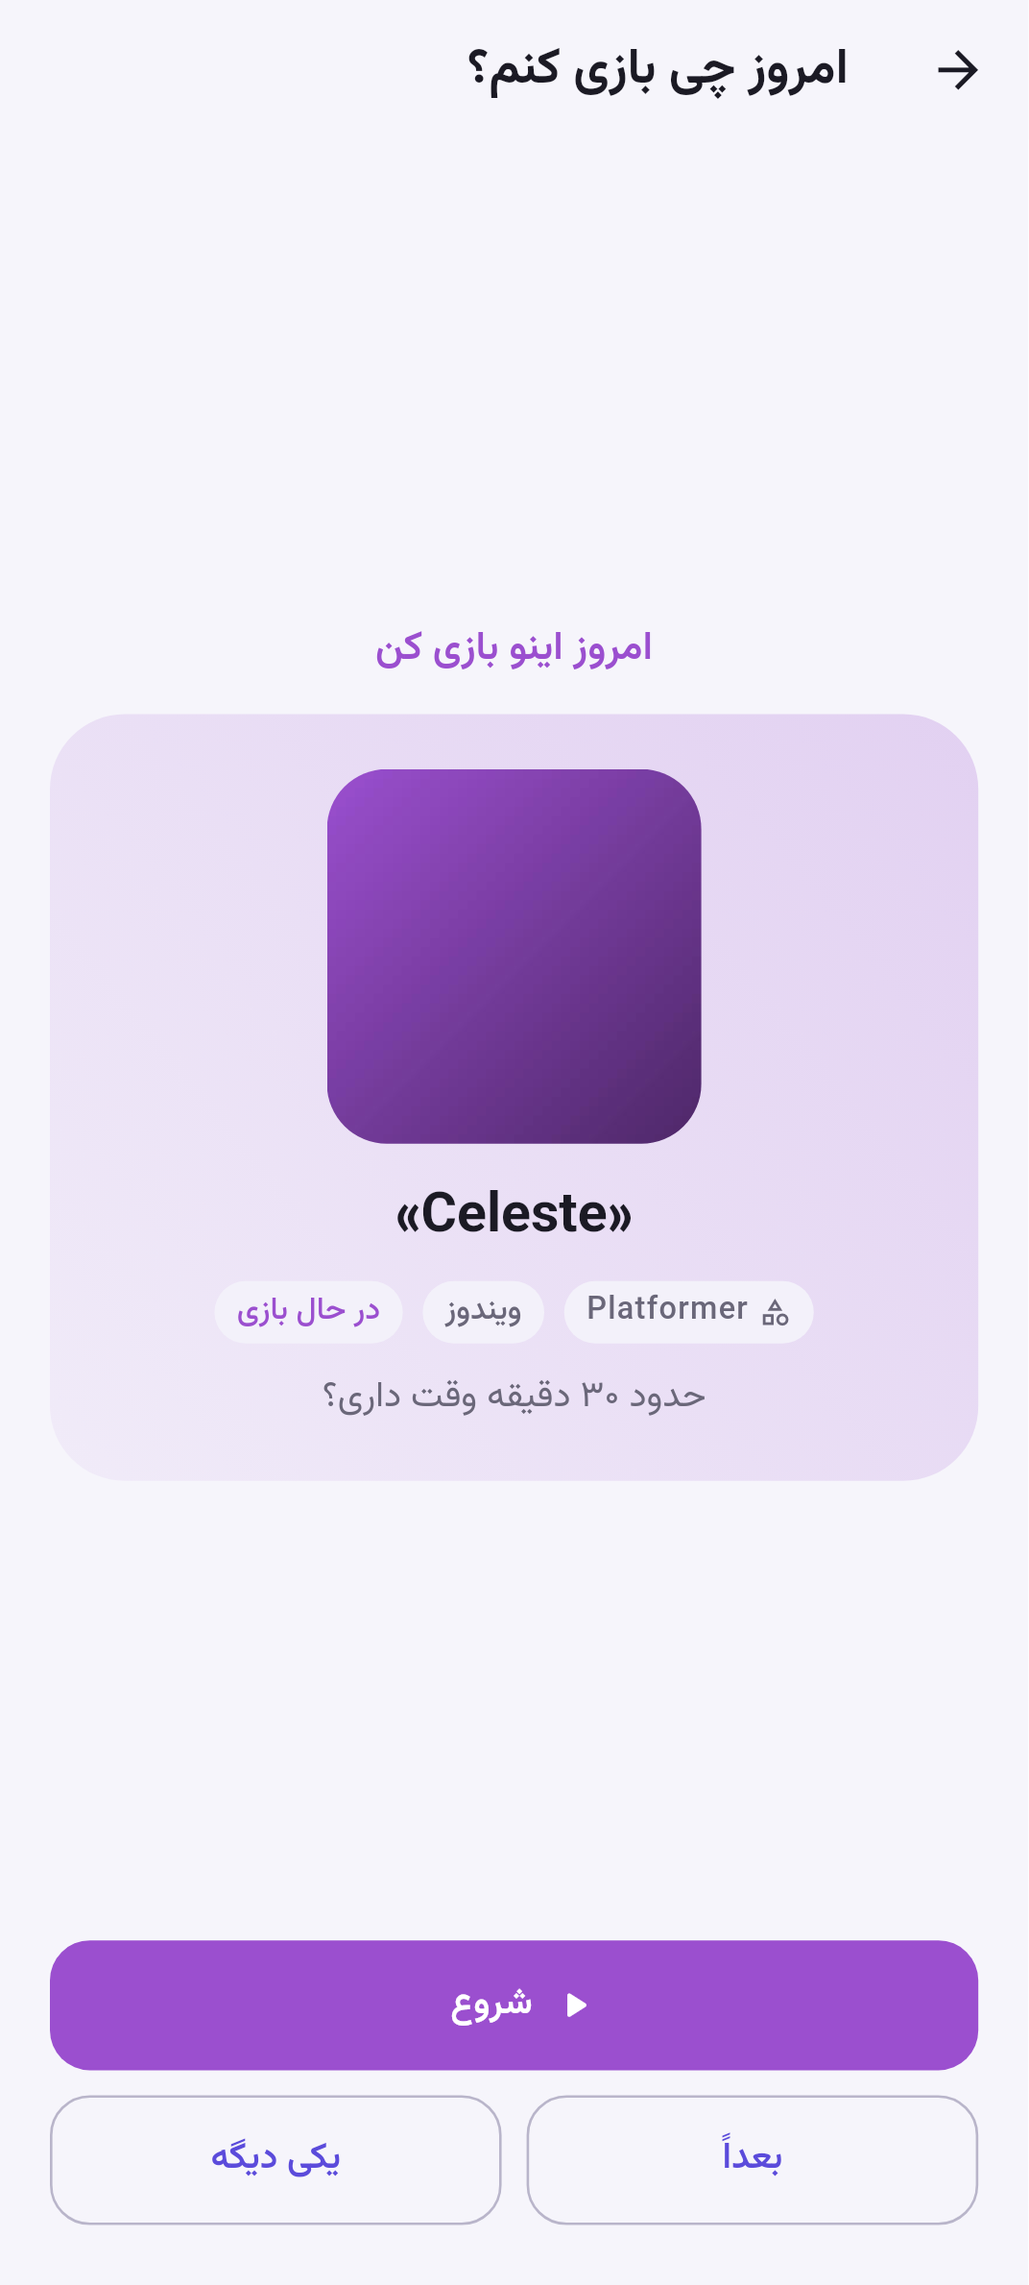
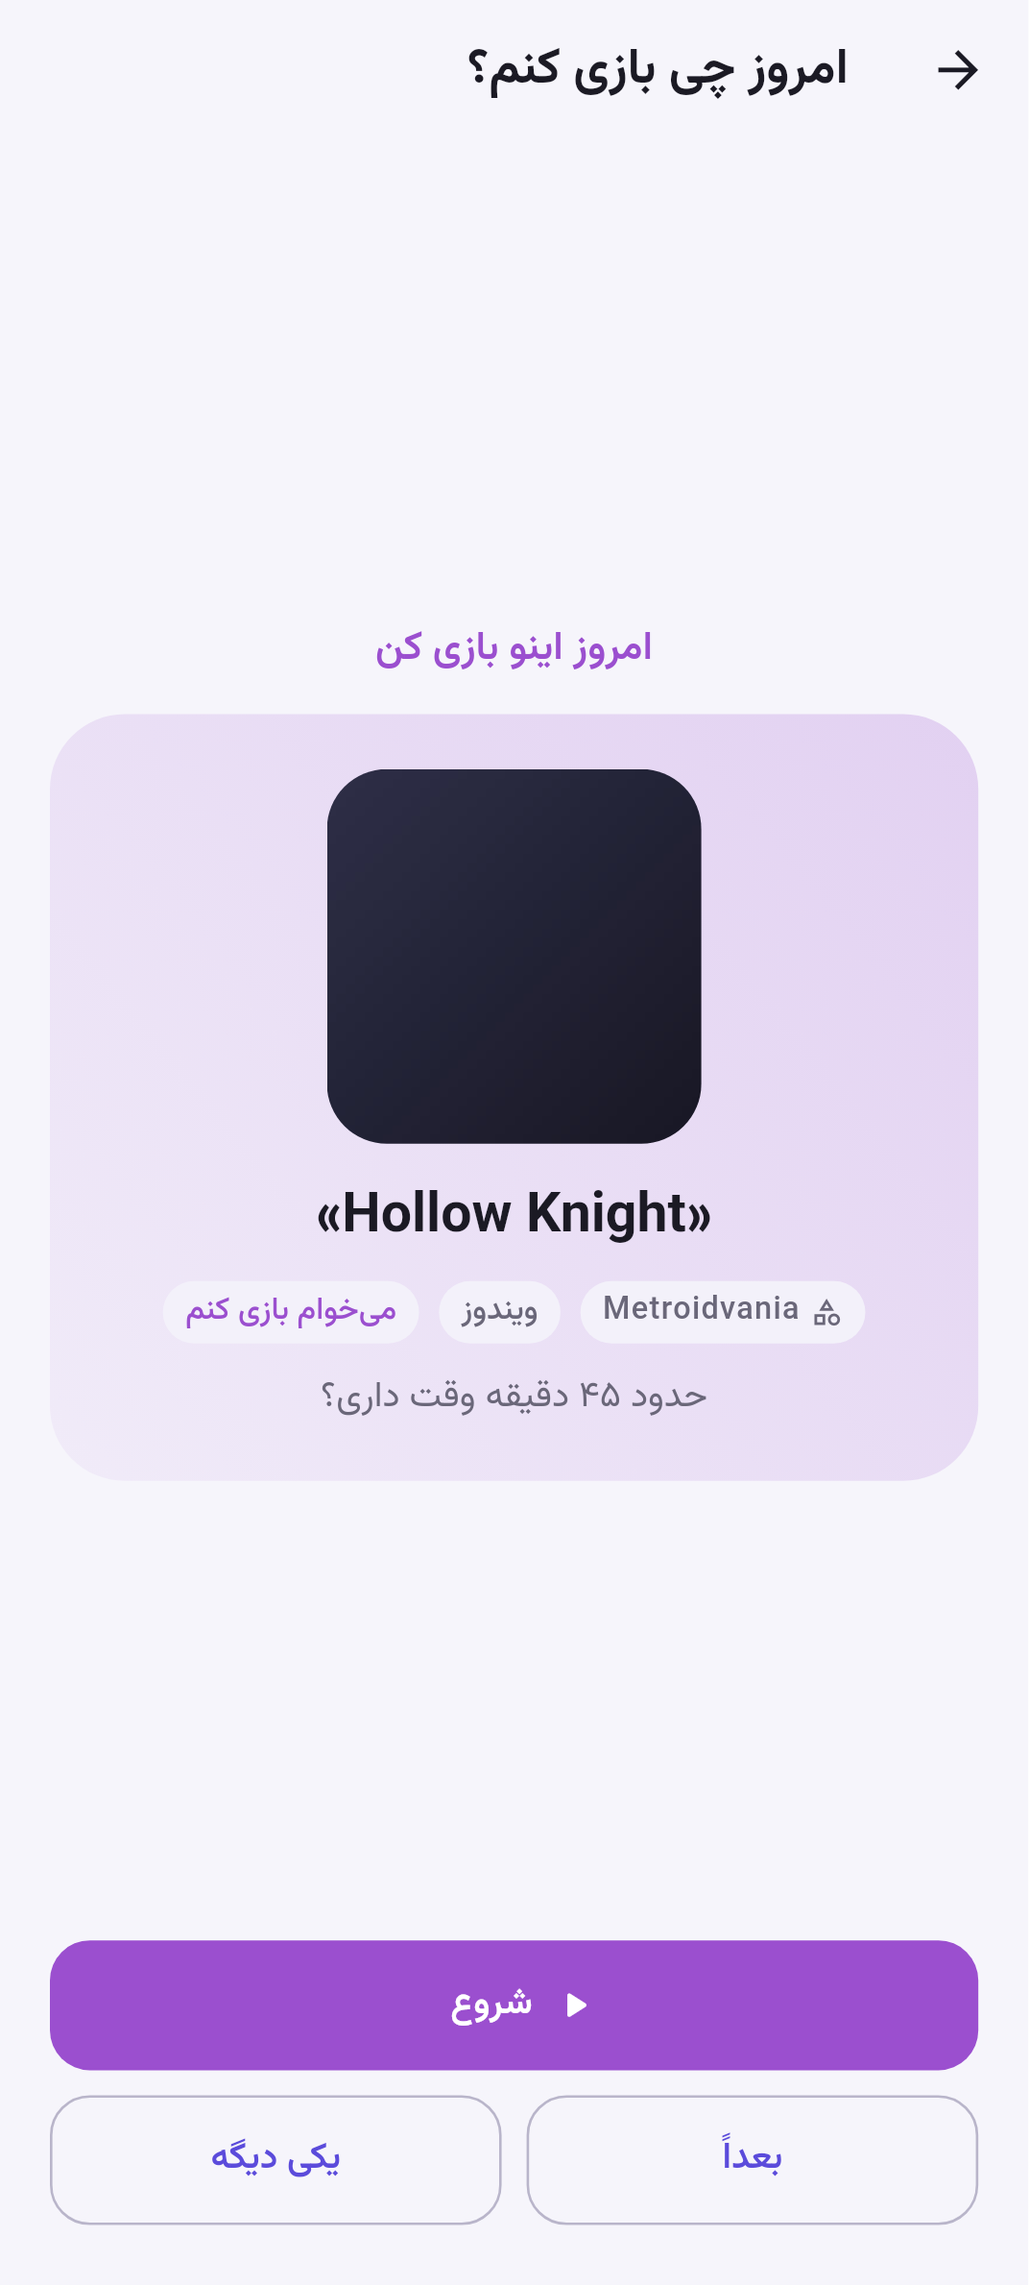
Myket publishing guide and listing, refreshed screenshots, store wording in the privacy text; release build with the Myket APK [release]
Claude-Session: https://claude.ai/code/session_01BB7qb9wvzwSuojfatziWR9

Changed region(s): [[0.2771, 0.3111, 0.7696, 0.6221], [0.1847, 0.5599, 0.2155, 0.591]]

diff --git a/docs/privacy/index.html b/docs/privacy/index.html
@@ -14,11 +14,11 @@ h1{font-size:1.6rem}h2{font-size:1.15rem;margin-top:1.8em;color:#4a3fd0}a{color:
 <h2>اینترنت</h2>
 <p>نسخهی بازار «بعداً» مجوز دسترسی به اینترنت ندارد و عملکرد اصلی آن کاملاً آفلاین است. برنامه هیچ اطلاعات شخصیای را به سرور ما یا شخص ثالث نمیفرستد.</p>
 <h2>مجوزهایی که برنامه میخواهد</h2>
-<p>اعلانها: برای نمایش یادآوریها؛ در پایان معرفی اولیهی برنامه پرسیده میشود و اگر نپذیرید، هنگام روشن کردن اولین یادآوری دوباره با توضیح پرسیده میشود.<br>هشدار دقیق: برای نمایش یادآوریها سر وقت؛ اختیاری است.<br>راهاندازی مجدد دستگاه: برای اینکه یادآوریها بعد از خاموش و روشن شدن گوشی دوباره تنظیم شوند.<br>ارتباط با کافهبازار: فقط برای خرید اشتراک Pro.<br>برنامه مجوز خواندن مخاطبین را نمیخواهد. وقتی «انتخاب از مخاطبها» را میزنید، انتخابگر خود سیستم باز میشود و فقط همان یک مخاطبی که انتخاب میکنید (اسم و ارجاع به آن) به برنامه داده میشود؛ شماره و اطلاعات دیگر او کپی یا ذخیره نمیشود. برنامه به مکان، میکروفون، دوربین یا حافظهی عمومی هم دسترسی نمیخواهد. ذخیره و بازیابی پشتیبان از طریق انتخابگر فایل خود سیستم انجام میشود.</p>
+<p>اعلانها: برای نمایش یادآوریها؛ در پایان معرفی اولیهی برنامه پرسیده میشود و اگر نپذیرید، هنگام روشن کردن اولین یادآوری دوباره با توضیح پرسیده میشود.<br>هشدار دقیق: برای نمایش یادآوریها سر وقت؛ اختیاری است.<br>راهاندازی مجدد دستگاه: برای اینکه یادآوریها بعد از خاموش و روشن شدن گوشی دوباره تنظیم شوند.<br>ارتباط با فروشگاه (کافهبازار یا مایکت): فقط برای خرید اشتراک Pro.<br>برنامه مجوز خواندن مخاطبین را نمیخواهد. وقتی «انتخاب از مخاطبها» را میزنید، انتخابگر خود سیستم باز میشود و فقط همان یک مخاطبی که انتخاب میکنید (اسم و ارجاع به آن) به برنامه داده میشود؛ شماره و اطلاعات دیگر او کپی یا ذخیره نمیشود. برنامه به مکان، میکروفون، دوربین یا حافظهی عمومی هم دسترسی نمیخواهد. ذخیره و بازیابی پشتیبان از طریق انتخابگر فایل خود سیستم انجام میشود.</p>
 <h2>اشتراکگذاری از برنامههای دیگر</h2>
 <p>وقتی از برنامهی دیگری (مثلاً مرورگر) گزینهی «اشتراکگذاری ← بعداً» را میزنید، فقط متن و لینکی که خودتان فرستادهاید روی دستگاه ذخیره میشود.</p>
 <h2>خرید و اشتراک</h2>
-<p>پرداخت توسط فروشگاه اپلیکیشن (کافهبازار) انجام میشود و «بعداً» به اطلاعات پرداخت شما دسترسی ندارد. وضعیت اشتراک (نوع پلن و تاریخ شروع و پایان) بهصورت رمزنگاریشده روی دستگاه نگهداری میشود.</p>
+<p>پرداخت توسط فروشگاه اپلیکیشن (کافهبازار یا مایکت) انجام میشود و «بعداً» به اطلاعات پرداخت شما دسترسی ندارد. وضعیت اشتراک (نوع پلن و تاریخ شروع و پایان) بهصورت رمزنگاریشده روی دستگاه نگهداری میشود.</p>
 <h2>پشتیبانگیری</h2>
 <p>فایل پشتیبان را شما میسازید و خودتان تصمیم میگیرید کجا ذخیره یا به اشتراک گذاشته شود. این فایل رمزگذاری نشده است؛ هر کسی که به آن دسترسی داشته باشد میتواند موردهای شما را بخواند. آن را در جای امن نگه دارید. پشتیبان خودکار (Pro) فقط در حافظهی خصوصی برنامه ذخیره میشود.</p>
 <h2>اعلانها و حریم خصوصی</h2>
@@ -40,11 +40,11 @@ h1{font-size:1.6rem}h2{font-size:1.15rem;margin-top:1.8em;color:#4a3fd0}a{color:
 <h2>Internet</h2>
 <p>The store build of Later does not request the internet permission and its core features work fully offline. The app does not send any personal data to us or to third parties.</p>
 <h2>Permissions</h2>
-<p>Notifications: to show reminders; asked at the end of the first-run introduction, and asked again with an explanation when you turn on your first reminder if you declined.<br>Exact alarms: to show reminders on time; optional.<br>Device restart: so reminders are re-scheduled after the phone reboots.<br>Cafe Bazaar communication: only to buy a Pro subscription.<br>The app does not ask for permission to read your contacts. When you tap &quot;Pick from contacts&quot; the system&#x27;s own picker opens and only the single contact you choose (its name and a reference to it) is handed to the app; the number and other details are not copied or stored. The app does not ask for location, microphone, camera or shared storage. Saving and restoring backups uses the system file picker.</p>
+<p>Notifications: to show reminders; asked at the end of the first-run introduction, and asked again with an explanation when you turn on your first reminder if you declined.<br>Exact alarms: to show reminders on time; optional.<br>Device restart: so reminders are re-scheduled after the phone reboots.<br>Store communication (Cafe Bazaar or Myket): only to buy a Pro subscription.<br>The app does not ask for permission to read your contacts. When you tap &quot;Pick from contacts&quot; the system&#x27;s own picker opens and only the single contact you choose (its name and a reference to it) is handed to the app; the number and other details are not copied or stored. The app does not ask for location, microphone, camera or shared storage. Saving and restoring backups uses the system file picker.</p>
 <h2>Sharing from other apps</h2>
 <p>When you choose &quot;Share → Later&quot; in another app (for example a browser), only the text and link you sent are saved on your device.</p>
 <h2>Purchases</h2>
-<p>Payments are handled by the app store (Cafe Bazaar); Later has no access to your payment details. Subscription status (plan type, start and end dates) is stored on the device in encrypted form.</p>
+<p>Payments are handled by the app store (Cafe Bazaar or Myket); Later has no access to your payment details. Subscription status (plan type, start and end dates) is stored on the device in encrypted form.</p>
 <h2>Backups</h2>
 <p>You create backup files yourself and decide where to save or share them. The file is not encrypted: anyone who can open it can read your items. Keep it safe. Automatic backups (Pro) are stored only in the app&#x27;s private storage.</p>
 <h2>Notifications and privacy</h2>

diff --git a/store/LISTING_myket.md b/store/LISTING_myket.md
@@ -1,0 +1,77 @@
+# راهنمای کامل انتشار در مایکت (Myket)
+
+> فایل ساختهشده برای مایکت: `app-myket-release.apk` (از ساخت «Release (signed store build)» در GitHub Actions، بخش Artifacts).
+> همان برنامهی بازار است؛ فقط پرداخت درونبرنامهایاش با مایکت انجام میشود.
+
+## مرحلهی ۰ — پیشنیازها
+- حساب توسعهدهندهی مایکت: https://developer.myket.ir (ثبتنام و احراز هویت طبق راهنمای خود مایکت)
+- حساب GitHub همین مخزن (برای ساخت و گرفتن APK)
+- پشتیبان فایل امضا (`later-release.jks`) و رمزها — مهمترین چیز (راهنما: `docs/HANDOFF.md`)
+
+## مرحلهی ۱ — ساخت برنامه در پنل مایکت
+1. وارد پنل شو ← «افزودن برنامه» (نام دقیق دکمه ممکن است فرق کند).
+2. **نام بسته:** `app.baadan.later` (همان بازار؛ باید دقیقاً یکی باشد).
+3. **نام برنامه:** بعداً
+4. **دستهبندی:** ابزارها / بهرهوری
+5. اطلاعات را با متنهای پایین پر کن.
+
+## مرحلهی ۲ — محصولات درونبرنامهای (قبل از ارسال)
+سه محصول **مصرفی (Consumable)** با همین شناسهها و قیمتها:
+
+| شناسه (SKU) | نام | قیمت |
+|---|---|---|
+| `later_pro_1m` | Pro یکماهه | ۱۹٬۰۰۰ تومان |
+| `later_pro_3m` | Pro سهماهه | ۵۵٬۰۰۰ تومان |
+| `later_pro_6m` | Pro ششماهه | ۱۰۰٬۰۰۰ تومان |
+
+شناسهها را حتماً با حروف کوچک و دقیقاً همینطور بنویس. برنامه با همین شناسهها میخرد.
+
+## مرحلهی ۳ — کلید RSA مایکت
+1. در پنل مایکت، بخش پرداخت درونبرنامهای، **کلید RSA (کلید عمومی)** را کپی کن. اگر آن را فقط بعد از بارگذاری نشان داد، اول مرحلهی ۴ را با APK بدون کلید انجام بده.
+2. در GitHub: Settings ← Secrets and variables ← Actions ← New repository secret
+   نام: `MYKET_RSA_KEY`  مقدار: همان کلید.
+3. یک ساخت جدید بگیر (commit با `[release]` یا دکمهی دستی در Actions) و `app-myket-release.apk` را دوباره بگیر.
+   - APK ساختهشده **بدون** `MYKET_RSA_KEY` فقط برای بارگذاری اول خوب است و خرید در آن کار نمیکند.
+
+## مرحلهی ۴ — بارگذاری
+1. فایل `app-myket-release.apk` را بارگذاری کن (نسخه ۱.۳.۰، کد نسخه ۴ یا بالاتر).
+2. اسکرینشاتها و آیکون و تصویر شاخص را بگذار (پایین).
+3. لینک حریم خصوصی: https://rayganiali-creator.github.io/later/privacy/ (باید باز شود؛ در غیر این صورت GitHub Pages را در تنظیمات مخزن بررسی کن).
+4. ایمیل پشتیبانی: manseyed2000@gmail.com
+5. ارسال برای بررسی.
+
+## مرحلهی ۵ — بعد از تأیید، تست
+1. از مایکت نصبش کن.
+2. Pro: یک پلن ۱ ماهه بخر ← برنامه را پاک و دوباره نصب کن ← Pro باید خودش برگردد.
+3. در تنظیمات ← «برگشت» از صفحهی اصلی: پیام نظر باید صفحهی مایکت را باز کند. (لینک `myket://comment?id=…` را بدون تأیید رسمی مایکت نوشتهام؛ اگر باز نشد بگو تا درستش کنم.)
+
+---
+
+## متنهای آماده
+
+**نام:** بعداً
+**شعار:** الان لازم نیست؛ فقط فراموشش نکن.
+
+**توضیح کوتاه:**
+هر چیزی که الان وقتش نیست را نگه دار: مقاله، ویدیو، خرید، ایده. آفلاین و بدون حساب.
+
+**توضیح کامل:** همان متن «توضیح کامل» در `store/LISTING_fa.md` (هر دو برای مایکت هم درستاند).
+
+**کلمات کلیدی / برچسبها:** یادآور، لیست کارها، بعداً، یادداشت، ایده، لیست خرید، قرعه، بهرهوری، ویجت، آفلاین
+
+**تغییرات این نسخه (۱.۳.۰):**
+- ویجت گرد و مینیمال با ۶ رنگ، قابل تغییر اندازه
+- کارهای تکراری بعد از انجام در لیست میمانند و یادآوری بعدی میآید
+- قفسههای جدید: نرمافزار، پادکست، دوره و بازی
+- عکس برای هر مورد
+- ۱۲ رنگ برای تم برنامه
+- بازیابی درست خرید Pro بعد از نصب دوباره یا گوشی جدید
+
+**مجوزها:** اعلانها، هشدار دقیق (اختیاری)، اجرا پس از روشن شدن دستگاه، و ارتباط با مایکت فقط برای خرید Pro. برنامه مجوز اینترنت ندارد.
+
+**ردهی سنی:** همهی سنین (بدون محتوای حساس)
+
+## داراییها (در همین مخزن)
+- آیکون: `store/assets/icon_512.png`
+- تصویر شاخص: `store/assets/feature_graphic_1024x500.png`
+- اسکرینشاتها: `store/assets/screenshots/` (۱۳ تصویر، به ترتیب شماره)

diff --git a/store/LISTING_fa.md b/store/LISTING_fa.md
@@ -29,7 +29,8 @@
 • بعداً یاد بگیر: دوره و آموزش، با هدفِ خودت از یادگیری و پیشرفت.
 • بعداً بازی کن: بازیها با کاور، و «امروز چی بازی کنم؟» که با توجه به وقتت یکی را پیشنهاد میدهد.
 • عکس برای هر مورد: از گالری یا دوربین، کوچک و بدون اطلاعات مکان، فقط روی گوشی.
-• ویجت صفحهی اصلی در سه اندازه: شمارندهها، یک پیشنهاد از اطلاعات خودت، ذخیرهی سریع و قرعه.
+• ویجت گرد و مینیمال برای صفحهی اصلی: کارهای امروز، ذخیرهی سریع، هر اندازهای که بکشی و با ۶ رنگ.
+• کارهای تکراری (روزانه، هفتگی، ماهانه، سالانه) بعد از انجام در لیست میمانند و یادآوری بعدی میآید.
 
 **حریم خصوصی اول**
 • بدون حساب کاربری، بدون سرور، بدون تبلیغات و بدون ابزار تحلیل.
